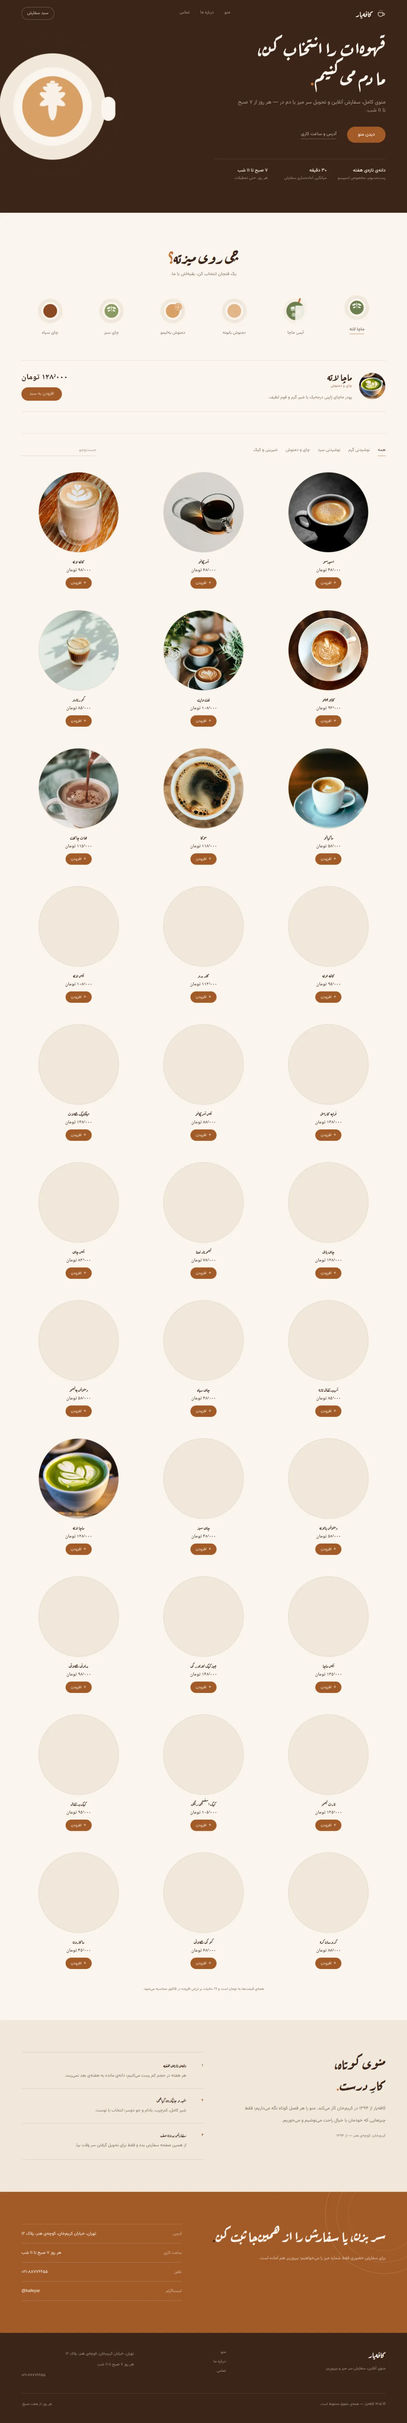
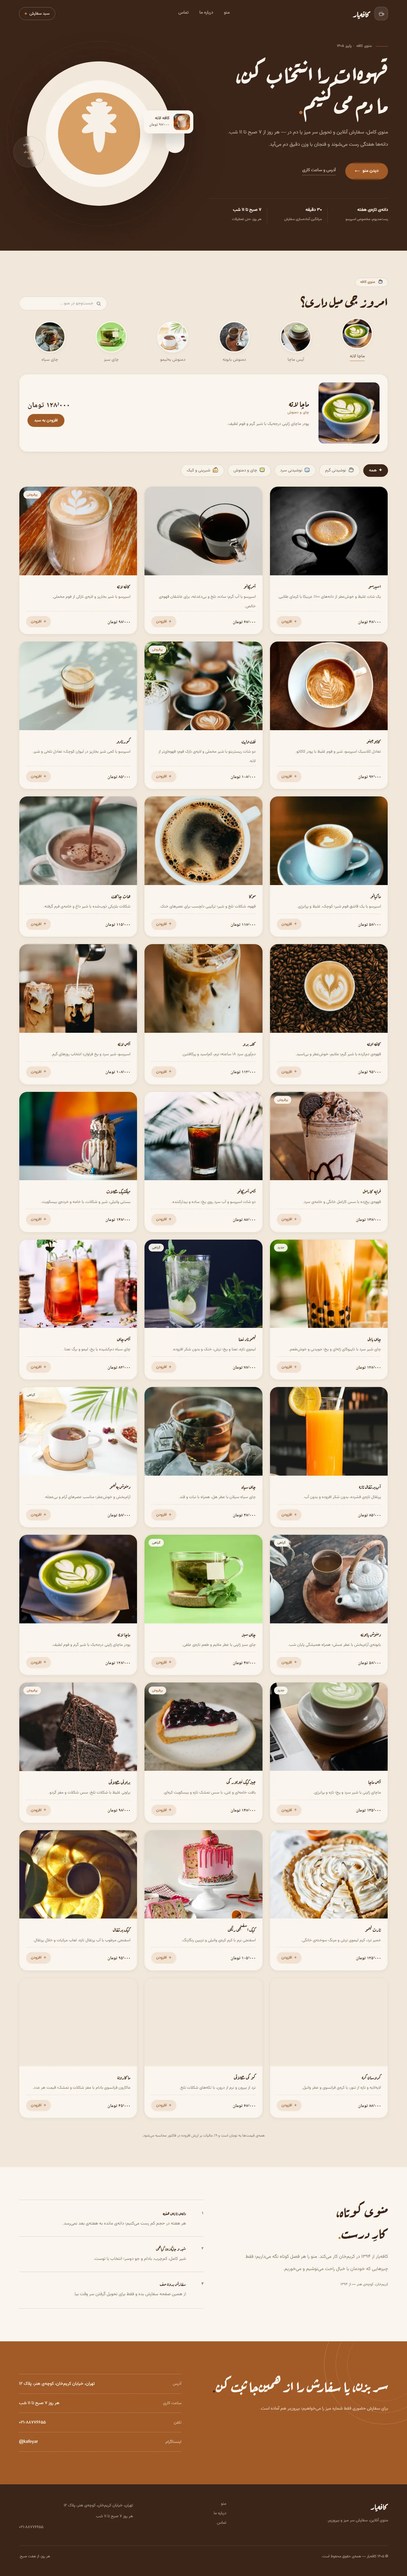
feat: refresh Kafeyar project screenshot

diff --git a/src/content/site.ts b/src/content/site.ts
@@ -123,7 +123,7 @@ const PROJECT_IMAGES = {
   lisens: { src: "/lisens.webp", width: 1200, height: 5643 },
   portfolio: { src: "/portfolio.webp", width: 1200, height: 6494 },
   hadiStore: { src: "/hadi-store.webp", width: 1280, height: 3089 },
-  kafeyar: { src: "/kafeyar.webp", width: 1200, height: 7136 },
+  kafeyar: { src: "/kafeyar.webp", width: 1200, height: 7585 },
 } satisfies Record<string, ProjectImage>;
 
 export const siteLinks = {
